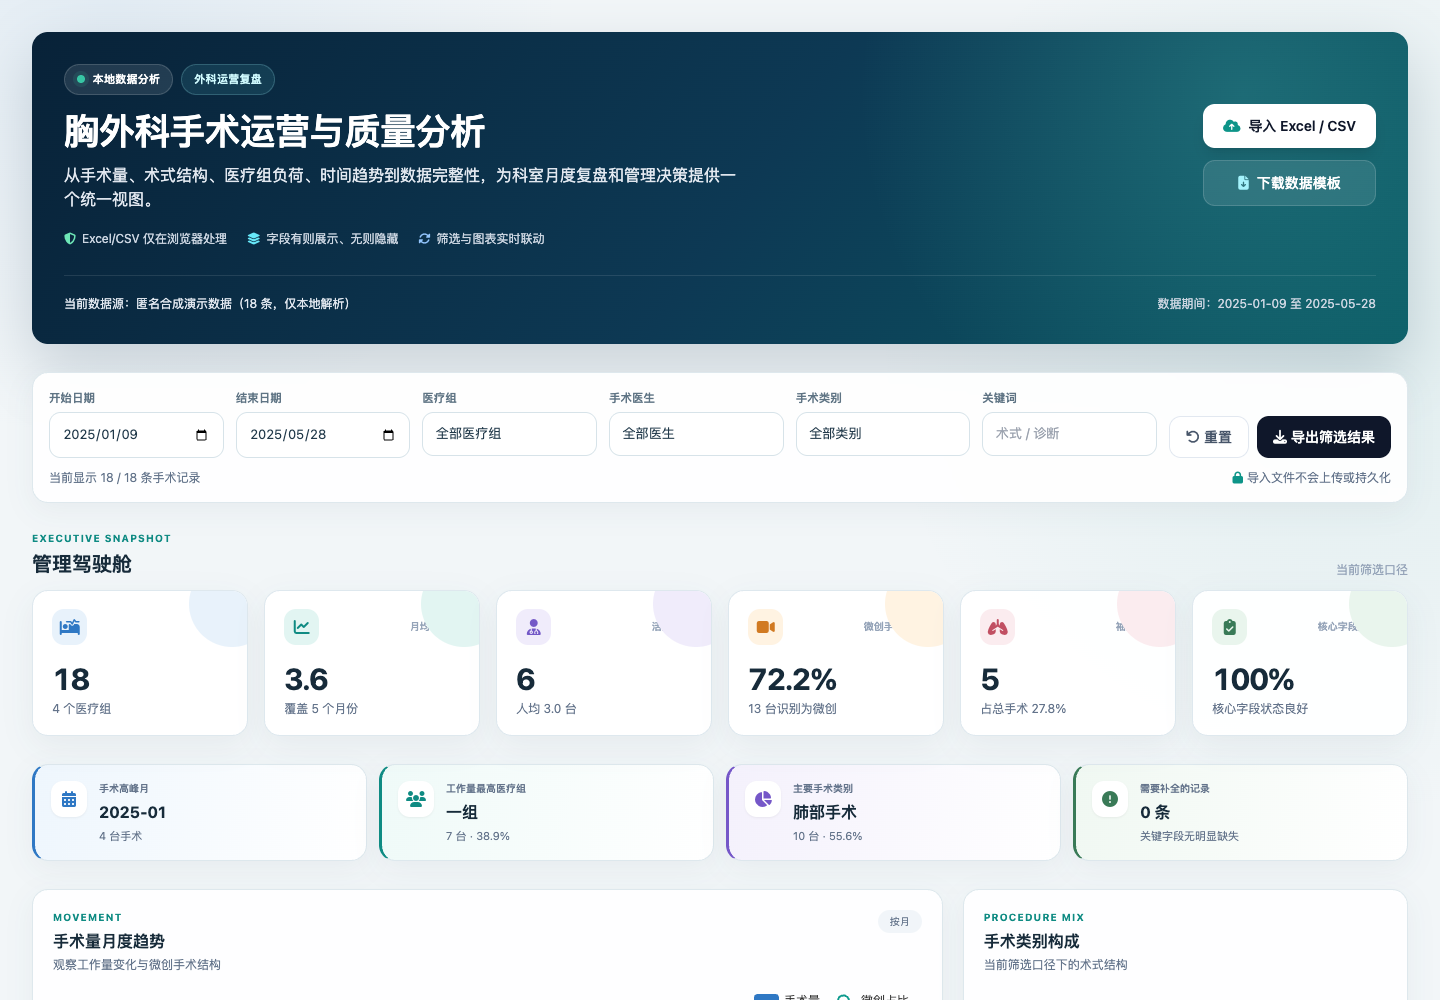
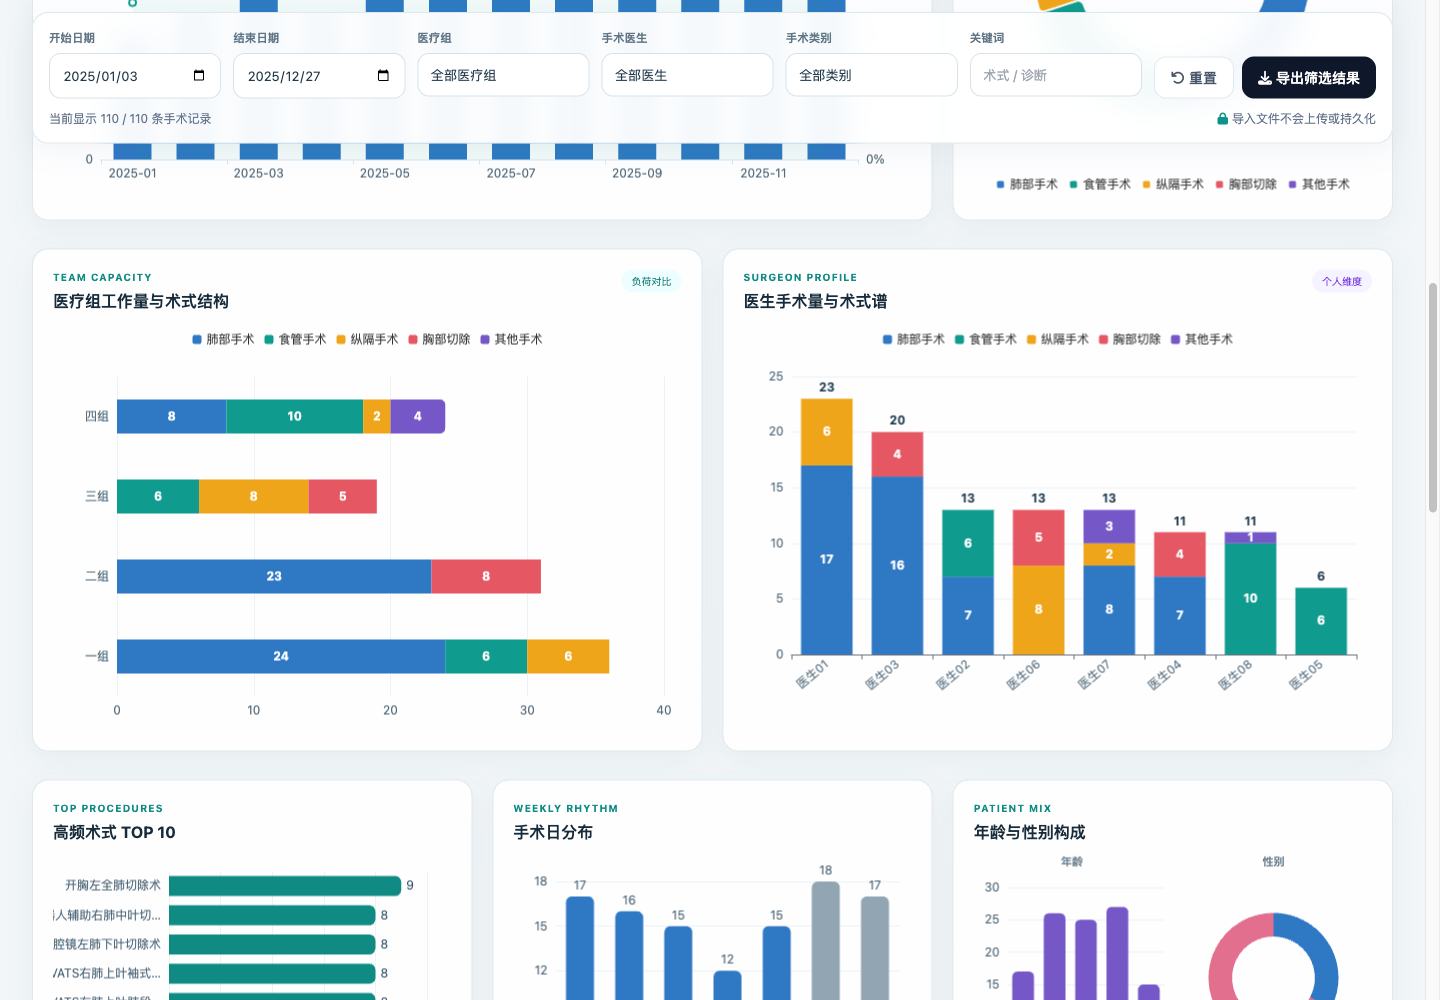
Enrich synthetic dashboard data

diff --git a/app.js b/app.js
@@ -34,25 +34,91 @@
         { val: "其他手术|其他", label: "其他手术" }
     ];
 
-    const DEMO_CSV = `序号,医疗组,性别,年龄,诊断,手术医生,手术名称,手术分类,手术日期,手术时长（分钟）,术中出血量,是否急诊,是否微创,术后住院日,手术级别,并发症,转归
-1,一组,男,61,纵隔占位,医生01,正中开胸纵隔肿物切除术+全胸腺切除术+血管成形术,纵隔,2025/1/9,210,260,否,否,8,四级,无,出院
-2,一组,女,48,纵隔占位,医生02,VATS右进胸纵隔肿物切除术,,2025/1/12,145,80,否,是,4,三级,无,出院
-3,二组,女,53,胸腔占位,医生03,正中开胸肿物切除+静脉成形术,胸部,2025/1/18,235,320,否,否,9,四级,无,出院
-4,二组,男,55,肺部占位,医生04,VATS右肺上叶袖式切除术+淋巴结清扫术,肺部,2025/1/24,280,180,否,是,7,四级,无,出院
-5,二组,女,44,肺部占位,医生04,正中开胸胸腔肿物切除+部分心包切除+右侧全肺切,胸部,2025/2/3,310,450,否,否,11,四级,有,出院
-6,一组,男,70,肺部占位,医生01,VATS左肺下叶切除术+淋巴结清扫术,,2025/2/11,165,100,否,是,5,三级,无,出院
-7,五组,男,50,食管占位,医生05,VATS胸腹腔镜联合食管根治术,食管,2025/2/18,295,220,否,是,9,四级,无,出院
-8,五组,女,66,食管占位,医生05,左开胸食管根治术+淋巴结清扫术,食管,2025/3/2,325,360,否,否,10,四级,无,出院
-9,一组,男,59,肺部占位,医生02,VATS右肺上叶袖式切除术+纵隔淋巴结清扫术,肺部,2025/3/11,260,150,否,是,6,四级,无,出院
-10,一组,女,64,肺部占位,医生01,VATS右上叶袖式切除+淋巴结清扫术+肺动脉成形术,,2025/3/20,275,190,否,是,7,四级,无,出院
-11,二组,男,67,肺部占位,医生03,VATS右肺上叶袖式切除术+淋巴结清扫术+肺大疱切除术,肺部,2025/4/8,255,140,否,是,6,四级,无,出院
-12,二组,女,69,肺部占位,医生04,VATS辅助左肺上叶袖式切除术,肺部,2025/4/16,245,130,否,是,6,四级,无,出院
-13,三组,女,42,肺结节,医生06,胸腔镜右肺上叶楔形切除术,肺部,2025/4/22,90,30,否,是,3,二级,无,出院
-14,三组,男,73,肺部占位,医生06,急诊开胸探查+肺破裂修补术,肺部,2025/4/27,180,500,是,否,12,三级,有,出院
-15,一组,女,38,肺结节,医生02,胸腔镜左肺上叶肺段切除术,肺部,2025/5/6,135,60,否,是,4,三级,无,出院
-16,五组,男,62,食管占位,医生05,胸腹腔镜联合食管根治术,食管,2025/5/14,305,240,否,是,8,四级,无,出院
-17,二组,女,57,肺部占位,医生03,VATS右肺中叶切除+淋巴结清扫,肺部,2025/5/21,175,95,否,是,5,三级,无,出院
-18,一组,男,65,纵隔占位,医生01,胸腔镜纵隔肿物切除术,纵隔,2025/5/28,125,55,否,是,4,三级,无,出院`;
+    const DEMO_MONTHLY_MIX = [
+        [3, 1, 1, 1, 0], [3, 2, 1, 1, 0], [4, 1, 2, 1, 0], [3, 2, 1, 1, 0],
+        [5, 1, 1, 1, 1], [5, 2, 2, 1, 0], [3, 2, 1, 1, 1], [4, 2, 1, 2, 0],
+        [6, 2, 2, 1, 0], [5, 2, 1, 1, 1], [7, 2, 2, 1, 0], [7, 3, 1, 1, 1]
+    ];
+    const DEMO_PROFILES = [
+        {
+            category: "肺部", diagnosis: ["肺结节", "肺部占位", "肺癌术后复查异常"], doctors: ["医生01", "医生01", "医生02", "医生03", "医生03", "医生04", "医生07"],
+            procedures: [
+                ["VATS右肺上叶切除术+淋巴结清扫术", true, 175, 90, 5], ["胸腔镜左肺下叶切除术+淋巴结清扫术", true, 190, 105, 6],
+                ["机器人辅助右肺中叶切除术", true, 205, 70, 5], ["VATS右肺上叶袖式切除术+纵隔淋巴结清扫术", true, 275, 170, 7],
+                ["开胸左全肺切除术+淋巴结清扫术", false, 315, 420, 11], ["胸腔镜右肺上叶楔形切除术", true, 95, 35, 3],
+                ["VATS左肺上叶肺段切除术", true, 145, 55, 4]
+            ]
+        },
+        {
+            category: "食管", diagnosis: ["食管占位", "食管恶性肿瘤", "食管高级别上皮内瘤变"], doctors: ["医生05", "医生05", "医生08", "医生08", "医生02"],
+            procedures: [
+                ["胸腹腔镜联合食管癌根治术", true, 305, 220, 9], ["机器人辅助食管癌根治术", true, 285, 160, 8],
+                ["左开胸食管癌根治术+淋巴结清扫术", false, 345, 390, 12], ["胸腔镜食管良性肿物切除术", true, 155, 65, 5]
+            ]
+        },
+        {
+            category: "纵隔", diagnosis: ["纵隔占位", "胸腺占位", "纵隔囊肿"], doctors: ["医生01", "医生06", "医生06", "医生07"],
+            procedures: [
+                ["胸腔镜纵隔肿物切除术", true, 130, 55, 4], ["机器人辅助全胸腺切除术", true, 165, 70, 5],
+                ["正中开胸纵隔肿物切除术+血管成形术", false, 250, 310, 9]
+            ]
+        },
+        {
+            category: "胸部", diagnosis: ["胸壁占位", "胸腔巨大肿物", "胸膜占位"], doctors: ["医生03", "医生04", "医生06"],
+            procedures: [
+                ["胸壁肿物扩大切除术+胸壁重建术", false, 225, 260, 8], ["胸腔镜胸膜肿物切除术", true, 120, 60, 4],
+                ["开胸巨大胸腔肿物切除术", false, 290, 480, 12]
+            ]
+        },
+        {
+            category: "其他", diagnosis: ["自发性气胸", "脓胸", "多发肋骨骨折"], doctors: ["医生07", "医生08"],
+            procedures: [
+                ["胸腔镜肺大疱切除术+胸膜固定术", true, 105, 40, 3], ["胸腔镜脓胸清除术", true, 135, 85, 5],
+                ["急诊开胸探查术+止血术", false, 185, 520, 10], ["肋骨骨折切开复位内固定术", false, 150, 120, 6]
+            ]
+        }
+    ];
+    const DEMO_GROUPS = { "医生01": "一组", "医生02": "一组", "医生03": "二组", "医生04": "二组", "医生05": "三组", "医生06": "三组", "医生07": "四组", "医生08": "四组" };
+
+    function buildDemoData() {
+        const rows = [];
+        let sequence = 0;
+        DEMO_MONTHLY_MIX.forEach((mix, monthIndex) => {
+            mix.forEach((count, profileIndex) => {
+                const profile = DEMO_PROFILES[profileIndex];
+                for (let localIndex = 0; localIndex < count; localIndex++) {
+                    const procedure = profile.procedures[(monthIndex + localIndex * 2 + profileIndex) % profile.procedures.length];
+                    const doctor = profile.doctors[(sequence + monthIndex + localIndex) % profile.doctors.length];
+                    const day = 3 + ((sequence * 5 + profileIndex * 3) % 25);
+                    const durationOffset = ((sequence * 13) % 41) - 20;
+                    const bloodOffset = ((sequence * 17) % 61) - 30;
+                    const losOffset = ((sequence * 7) % 3) - 1;
+                    const emergency = procedure[0].includes("急诊");
+                    rows.push({
+                        "序号": sequence + 1,
+                        "医疗组": DEMO_GROUPS[doctor],
+                        "性别": (sequence + profileIndex) % 3 === 0 ? "女" : "男",
+                        "年龄": 34 + ((sequence * 9 + profileIndex * 7) % 43),
+                        "诊断": profile.diagnosis[(sequence + monthIndex) % profile.diagnosis.length],
+                        "手术医生": doctor,
+                        "手术名称": procedure[0],
+                        "手术分类": profile.category,
+                        "手术日期": `2025/${monthIndex + 1}/${day}`,
+                        "手术时长（分钟）": Math.max(65, procedure[2] + durationOffset),
+                        "术中出血量": Math.max(20, procedure[3] + bloodOffset),
+                        "是否急诊": emergency ? "是" : "否",
+                        "是否微创": procedure[1] ? "是" : "否",
+                        "术后住院日": Math.max(2, procedure[4] + losOffset),
+                        "手术级别": procedure[2] >= 250 ? "四级" : procedure[2] >= 145 ? "三级" : "二级",
+                        "并发症": sequence % 19 === 7 || (emergency && sequence % 2 === 0) ? "有" : "无",
+                        "转归": sequence === 83 ? "转院" : "出院"
+                    });
+                    sequence++;
+                }
+            });
+        });
+        return rows;
+    }
 
     const state = {
         raw: [], derived: [], filtered: [], doctorGroups: {}, overrides: {}, charts: {}, sourceName: "匿名合成演示数据"
@@ -118,6 +184,7 @@
         else if (declared.includes("纵隔") || declared.includes("胸腺")) { main = "纵隔手术"; sub = "纵隔肿瘤/胸腺切除"; }
         else if (declared.includes("胸")) { main = "胸部切除"; sub = "巨大肿物/胸壁切除"; }
         else if (declared.includes("肺")) { main = "肺部手术"; sub = detectLungSubtype(surgery); }
+        else if (declared.includes("其他")) { main = "其他手术"; sub = "其他"; }
         if (!main) {
             const first = surgery.split(/[+＋]/)[0];
             if (first.includes("食管")) { main = "食管手术"; sub = "食管癌根治术"; }
@@ -355,7 +422,7 @@
             ]
         });
         const categoryData = sortedKeys(stats.categories, CATEGORY_ORDER).map((name, index) => ({ name, value: stats.categories[name], itemStyle: { color: COLORS[index % COLORS.length] } }));
-        renderChart("categoryPieChart", { tooltip: { trigger: "item", formatter: "{b}<br/>{c} 台 · {d}%" }, legend: { bottom: 4, itemWidth: 9, itemHeight: 9 }, series: [{ type: "pie", radius: ["48%", "70%"], center: ["50%", "44%"], padAngle: 2, itemStyle: { borderRadius: 5, borderColor: "#fff", borderWidth: 2 }, label: { formatter: "{b}\n{d}%", color: "#405b6d" }, data: categoryData }] });
+        renderChart("categoryPieChart", { tooltip: { trigger: "item", formatter: "{b}<br/>{c} 台 · {d}%" }, legend: { bottom: 4, itemWidth: 9, itemHeight: 9 }, series: [{ type: "pie", radius: ["48%", "70%"], center: ["50%", "44%"], padAngle: 2, itemStyle: { borderRadius: 5, borderColor: "#fff", borderWidth: 2 }, label: { show: false }, emphasis: { label: { show: true, formatter: "{b}\n{d}%", color: "#274254", fontWeight: 700 } }, data: categoryData }] });
         const groups = sortedKeys(stats.groups, GROUP_ORDER), categories = CATEGORY_ORDER;
         renderChart("groupStackChart", { tooltip: { trigger: "axis", axisPointer: { type: "shadow" } }, legend: { top: 8, itemWidth: 9, itemHeight: 9, data: categories }, grid: { top: 56, left: 64, right: 18, bottom: 34 }, xAxis: { type: "value", minInterval: 1, splitLine: { lineStyle: { color: "#edf2f5" } } }, yAxis: { type: "category", data: groups, axisLine: { show: false }, axisTick: { show: false } }, series: categories.map((category, index) => ({ name: category, type: "bar", stack: "total", barMaxWidth: 34, itemStyle: { color: COLORS[index], borderRadius: index === categories.length - 1 ? [0, 5, 5, 0] : 0 }, label: { show: true, position: "inside", formatter: p => p.value ? p.value : "", color: "#fff", fontWeight: 700 }, data: groups.map(group => stats.groups[group][category] || 0) })) });
         const doctors = sortedKeys(stats.doctors).sort((a, b) => Object.values(stats.doctors[b]).reduce((x, y) => x + y, 0) - Object.values(stats.doctors[a]).reduce((x, y) => x + y, 0));
@@ -477,8 +544,7 @@
         if (typeof Papa === "undefined" || typeof XLSX === "undefined" || typeof echarts === "undefined") return showStatus("资源库加载失败，请检查网络后刷新页面。", true);
         const datalist = document.createElement("datalist"); datalist.id = "groupList"; GROUP_ORDER.filter(group => group !== "未分组").forEach(group => { const option = document.createElement("option"); option.value = group; datalist.appendChild(option); }); document.body.appendChild(datalist);
         bindEvents();
-        const demo = Papa.parse(DEMO_CSV, { header: true, skipEmptyLines: true }).data;
-        initializeData(demo, "匿名合成演示数据");
+        initializeData(buildDemoData(), "匿名合成演示数据");
     }
 
     window.addEventListener("DOMContentLoaded", initialize);

diff --git a/README.md b/README.md
@@ -35,7 +35,7 @@
 
 ### 在线使用
 
-打开 [GitHub Pages 看板](https://donoghzzz.github.io/surgery-dashboard/)，点击“导入 Excel / CSV”。页面自带完全合成的演示数据，可先体验筛选和图表联动。
+打开 [GitHub Pages 看板](https://donoghzzz.github.io/surgery-dashboard/)，点击“导入 Excel / CSV”。页面自带 110 条跨 12 个月的完全合成演示数据，可直接体验趋势、结构差异、筛选和图表联动。
 
 ### 本地使用
 
@@ -137,7 +137,7 @@ python3 -m http.server 8000
 
 ## 隐私与安全
 
-仓库内演示数据均为合成数据，使用“患者001”“医生01”“DEMO001”等演示标识，不对应真实人员。
+仓库内演示数据均由固定规则生成，医生仅使用“医生01”等匿名演示标识，不包含患者姓名或真实医疗标识，不对应任何真实人员。
 
 - 不要把真实医疗数据、导出文件或含敏感信息的截图提交到 GitHub。
 - 上传前完成去标识化；即使页面本地处理，也应遵守医院制度和适用法规。
